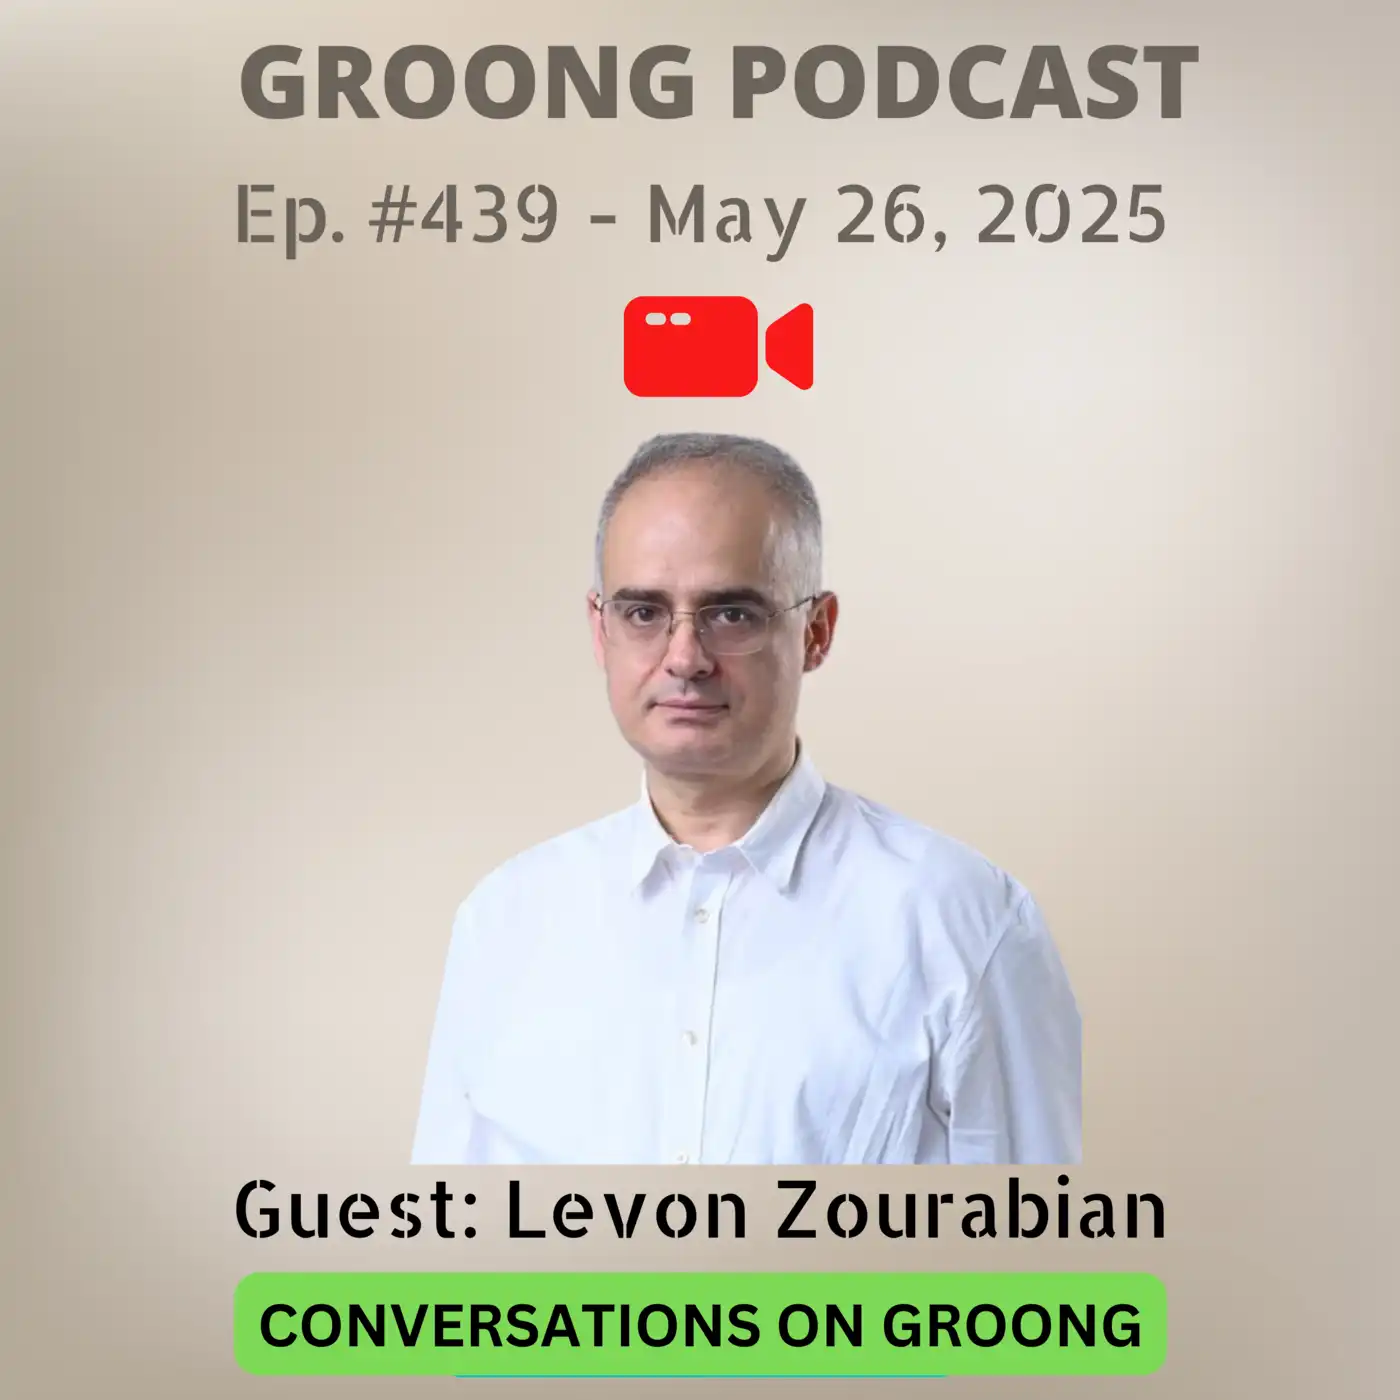
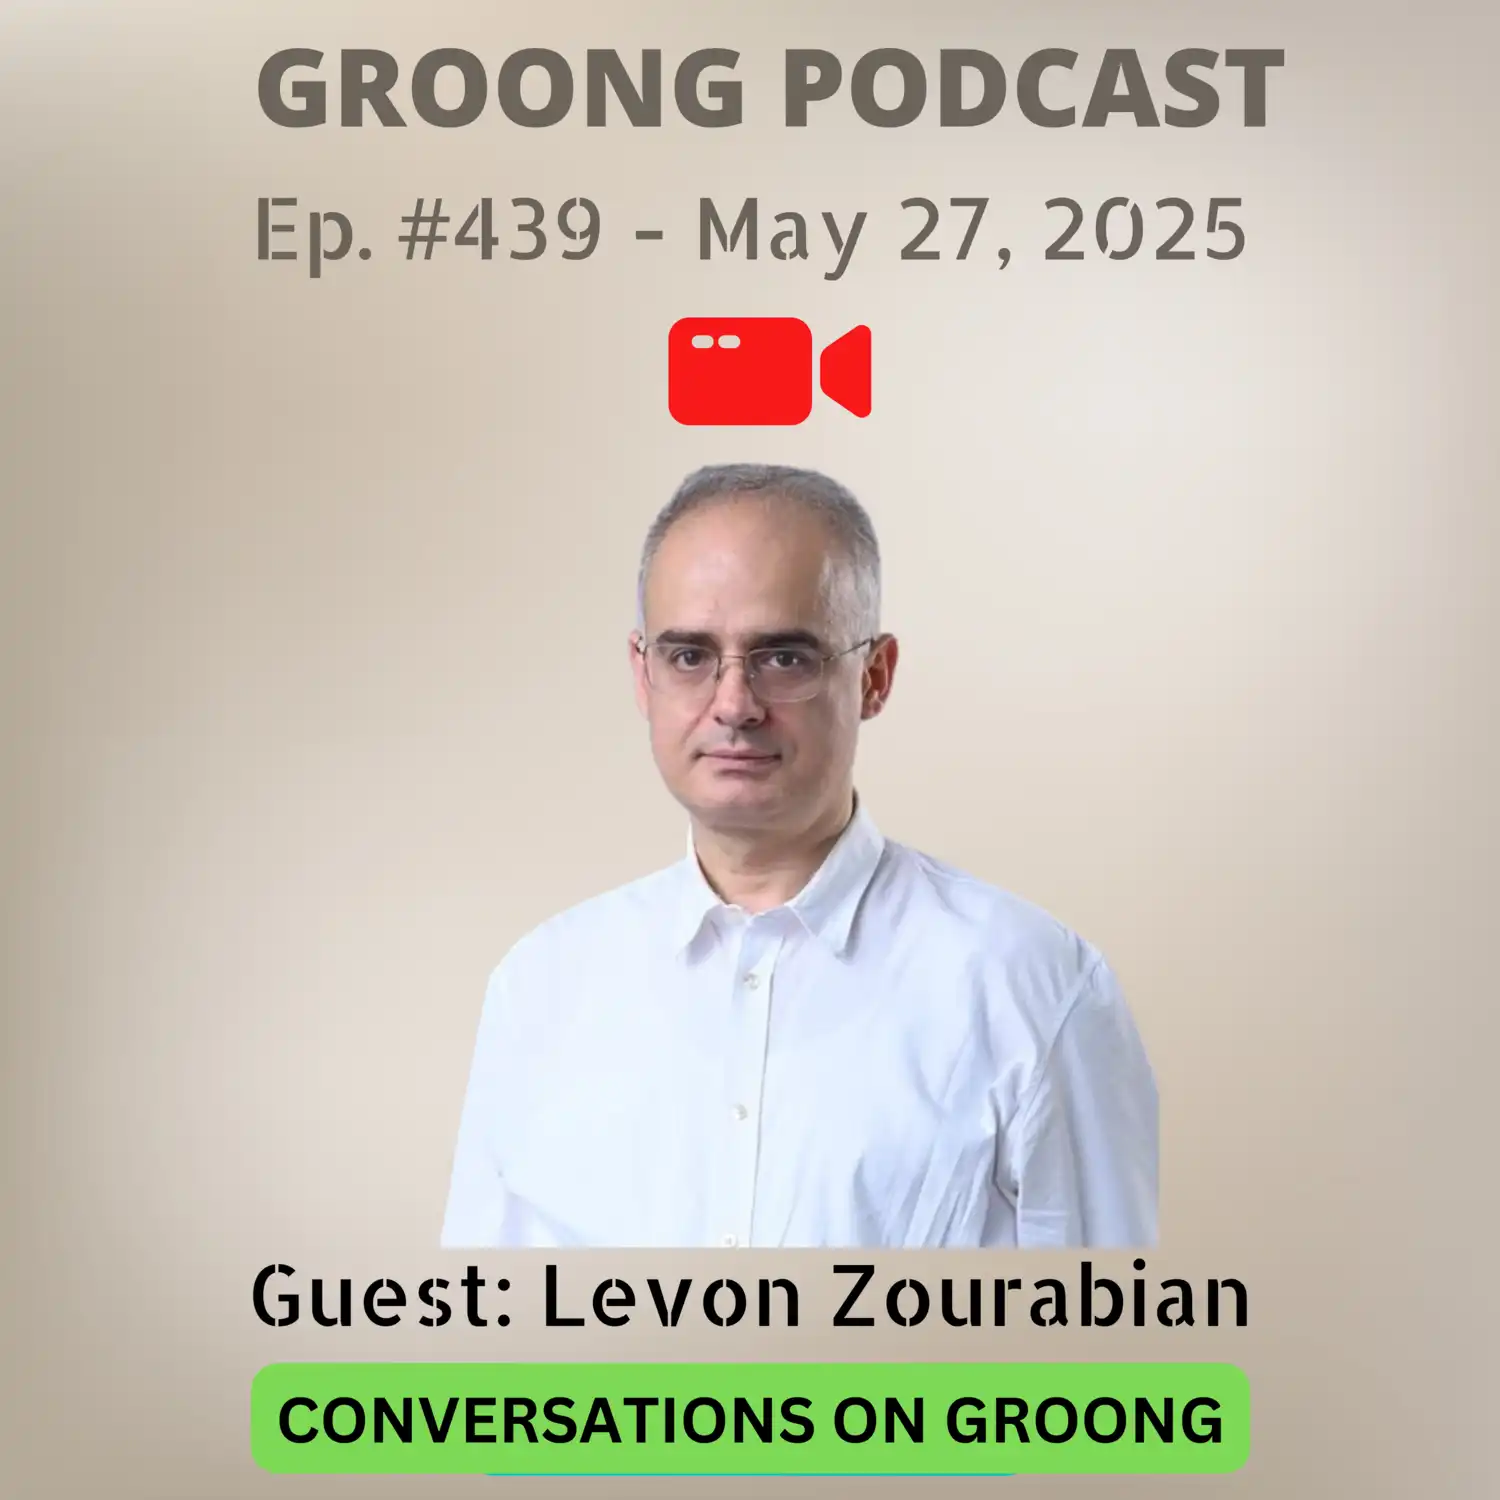
Adding episode 439

diff --git a/content/episode/439-levon-zourabian-us-iran-nuclear-negotiations-middle-east-abraham-accords--geopolitic-armenia-azerbaijan-talks-2026-elections.md b/content/episode/439-levon-zourabian-us-iran-nuclear-negotiations-middle-east-abraham-accords--geopolitic-armenia-azerbaijan-talks-2026-elections.md
@@ -1,14 +1,13 @@
 +++
-Date = 2025-05-26T00:00:00+04:00
-upcoming = true
+Date = 2025-05-27T00:11:00+04:00
 
 title = "Levon Zourabian - US-Iran, Russia-Ukraine, Armenia-Azerbaijan, 2026 Campaigns | Ep 439, May 26, 2025"
 subtitle = "Conversations on Groong - 05/26/2025"
 
-podcast_file = ""
-podcast_duration = ""
-podcast_bytes = ""
-youtube = ""
+podcast_file     = "17232012-levon-zourabian-us-iran-russia-ukraine-armenia-azerbaijan-2026-campaigns-ep-439-may-27-2025.mp3"
+podcast_duration = "5191"
+podcast_bytes    = "62328474"
+youtube = "CSmca-IgTaE"
 
 episode_image = "img/episode/439/thumbnail-439.webp"
 episode_banner = "img/episode/439/banner-439.webp"
@@ -23,7 +22,7 @@ aliases = ["/439"]
 series = ["cog", "video"]
 categories = ["Armenia", "Geopolitics", "Iran"]
 explicit = "no" # values are "yes" or "no"
-tags = ["Armenian News", "Levon Zourabian", "US", "Iran", "Nuclear Negotiations", "JCPOA", "Donald Trump", "Steven Witkoff", "Russia", "Ukraine", "Ukraine War", "Saudi Arabia", "UAE", "Qatar", "Abraham Accords", "Israel", "Palestine", "Gaza", "Gaza Genocide", "Palestinian Genocide", "Armenian Elections", "2026 Elections", "Yerevan", "Robert Kocharian", "Serge Sargsyan", "Nikol Pashinyan", "ANC", "Armenian National Congress"]
+tags = ["Armenian News"," Levon Zourabian"," US"," Iran"," Nuclear Negotiations"," JCPOA"," Donald Trump"," Steven Witkoff"," Russia"," Ukraine"," Ukraine War"," Saudi Arabia"," UAE"," Qatar"," Abraham Accords"," Israel"," Palestine"," Gaza"," Gaza Genocide"," Palestinian Genocide"," Armenian Elections"," 2026 Elections"," Yerevan"," Robert Kocharyan"," Serge Sargsyan"," Nikol Pashinyan"," ANC"," Armenian National Congress"," South Caucasus"," Azerbaijan"," Zangezur Corridor"," Lavrov"," Western Azerbaijan"," Armenian Constitution"]
 
 Description = """
 
@@ -44,6 +43,42 @@ Episode 439 | Recorded: May 23, 2025
 
 +++
 
+In this Conversations on Groong episode, we speak with Levon Zourabian, Vice President of the Armenian National Congress (ANC), about the rising political temperature in Armenia ahead of the 2026 parliamentary elections. We explore the fragile geopolitical environment surrounding Armenia—from renewed US-Iran negotiations and the expansion of the Abraham Accords to Russia’s shifting posture in Ukraine and the South Caucasus. Zourabian also weighs in on the Armenia-Azerbaijan talks, Lavrov’s visit to Yerevan, and whether a new political coalition can challenge Nikol Pashinyan’s hold on power.
+
+---
+
+## Main Topics Addressed
+
+- Trump’s Middle East diplomacy and Iran-Israel tensions  
+- Abraham Accords and Armenia’s rumored inclusion  
+- Russia’s war in Ukraine and its strategic effects  
+- Armenia-Azerbaijan “peace talks” and rising unilateral demands  
+- Lavrov’s visit and Russia’s recalibrated South Caucasus role  
+- Domestic political alignment ahead of Armenia’s 2026 elections  
+- ANC’s plans for a new political coalition  
+
+---
+
+## Key Questions Discussed
+
+- Can renewed US-Iran talks stabilize the region, or are they a prelude to war?  
+- How serious is Armenia’s possible inclusion in the Abraham Accords?  
+- What are the likely outcomes of the war in Ukraine, and how will they affect Armenia?  
+- Are the Armenia-Azerbaijan talks legitimate negotiations or coercive ultimatums?  
+- Is Russia reasserting influence in the South Caucasus, and at what cost to Armenian sovereignty?  
+- Will Pashinyan try to align the 2026 elections with a constitutional referendum?  
+- Can a new opposition force emerge to challenge Pashinyan and Kocharyan?  
+- Does the ANC foresee any alliance with the Republican Party (RPA)?  
+
+---
+
+## Other Resources
+
+- [Linktree](https://linktr.ee/groong)  
+- [Patreon – Support Groong](https://www.patreon.com/ann_groong)  
+- [Buy Me a Coffee – Support Groong](https://www.buymeacoffee.com/groong)
+
+
 # Wrap-up
 
 That’s our [show](https://podcasts.groong.org/)! We hope you found it useful. Please find us on [Social Media](https://linktr.ee/groong) and follow us everywhere you get your Armenian news.
@@ -53,3 +88,5 @@ Thanks to **Laura Osborn** for the music on our podcasts.
 Don't forget to support us!
 * [Patreon - Support Groong](https://www.patreon.com/ann_groong)
 * [Buy Me a Coffee - Support Groong](https://www.buymeacoffee.com/groong)
+
+

diff --git a/content/guest/lzourabian.md b/content/guest/lzourabian.md
@@ -17,4 +17,4 @@ Twitch = ""
 #guest_group = "cog"
 +++
 
-__Levon Zourabian__ is the Vice-President of the Armenian National Congress (ANC) party of Armenia, which was the ruling party during the terms in office of first president of Armenia, Levon Ter-Petrosyan in 1991-1998. He worked in the presidential administration as Aide and Chief Spokesman to the President. In 1998-2000 Mr. Zourabian studied at Columbia University and has a Master of International Affairs from the School of International and Public Affairs. From 2012-2017 Mr. Zourabian led the parliamentary faction of the ANC in the National Assembly of Armenia. Trained and having researched as theoretical physicist in Yerevan Physics Institute, he also makes appearances as Tech Advocate for the ANC.
+__Levon Zourabian__ is the Vice-President of the Armenian National Congress (ANC) party of Armenia, which is led by the first president of Armenia, Levon Ter-Petrosyan who was in office from 1991-1998. He worked in the presidential administration as Aide and Chief Spokesman to the President. In 1998-2000 Mr. Zourabian studied at Columbia University and has a Master of International Affairs from the School of International and Public Affairs. From 2012-2017 Mr. Zourabian led the parliamentary faction of the ANC in the National Assembly of Armenia. Trained and having researched as theoretical physicist in Yerevan Physics Institute, he also makes appearances as Tech Advocate for the ANC.
